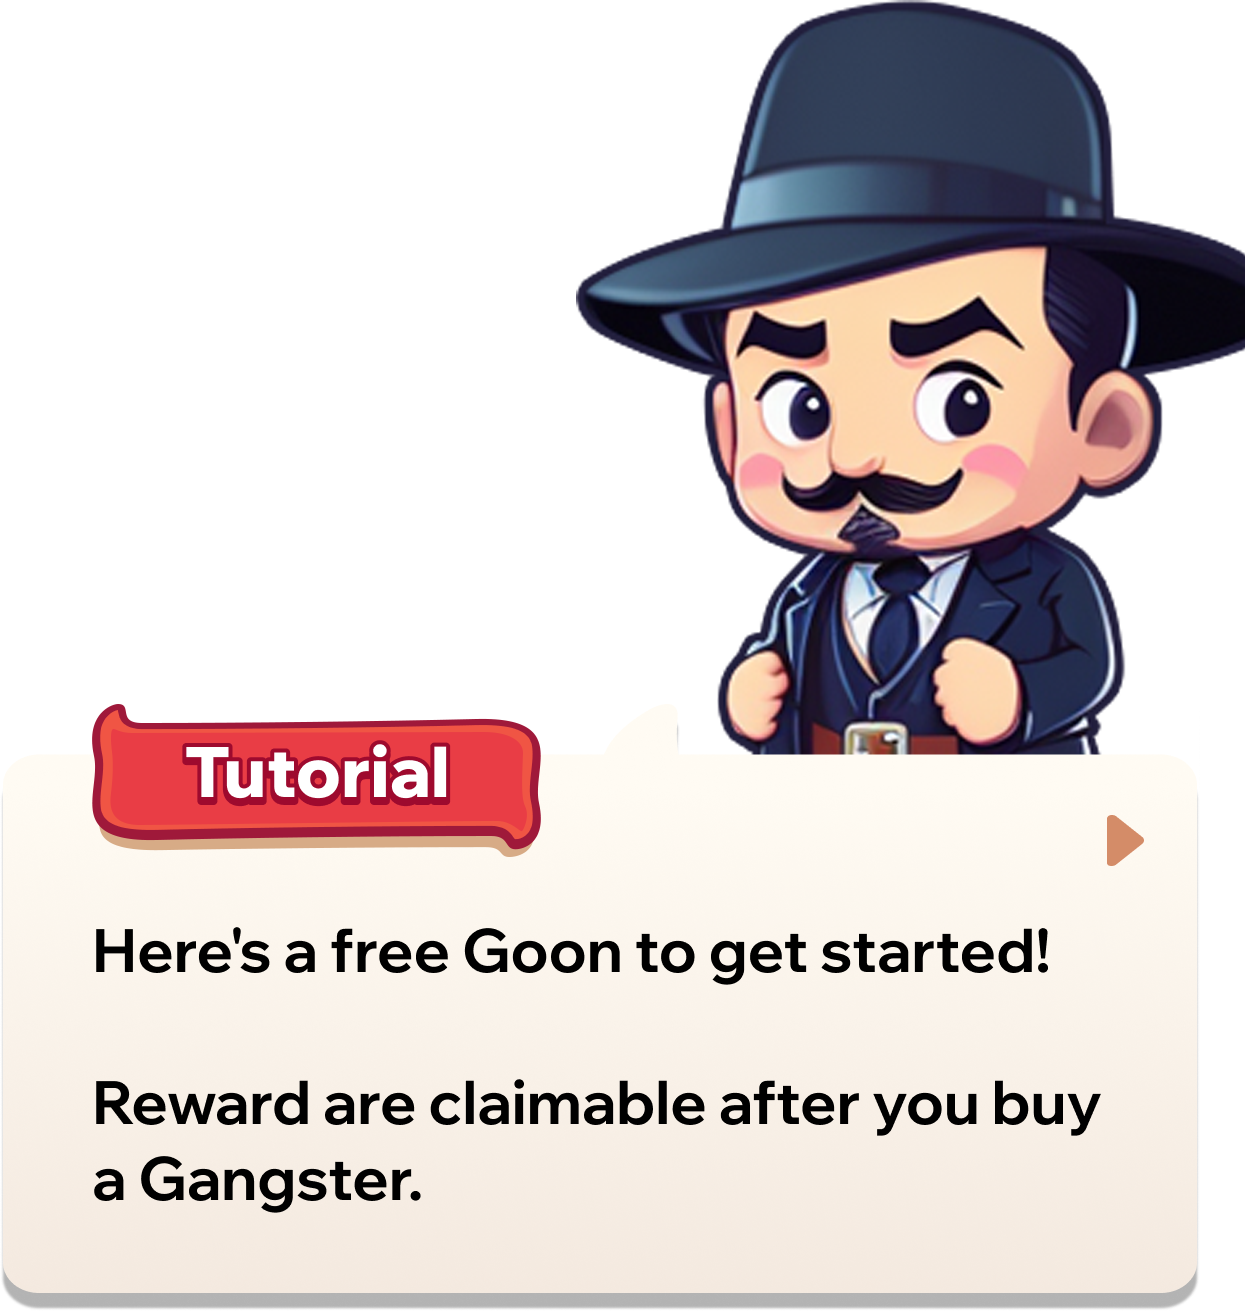
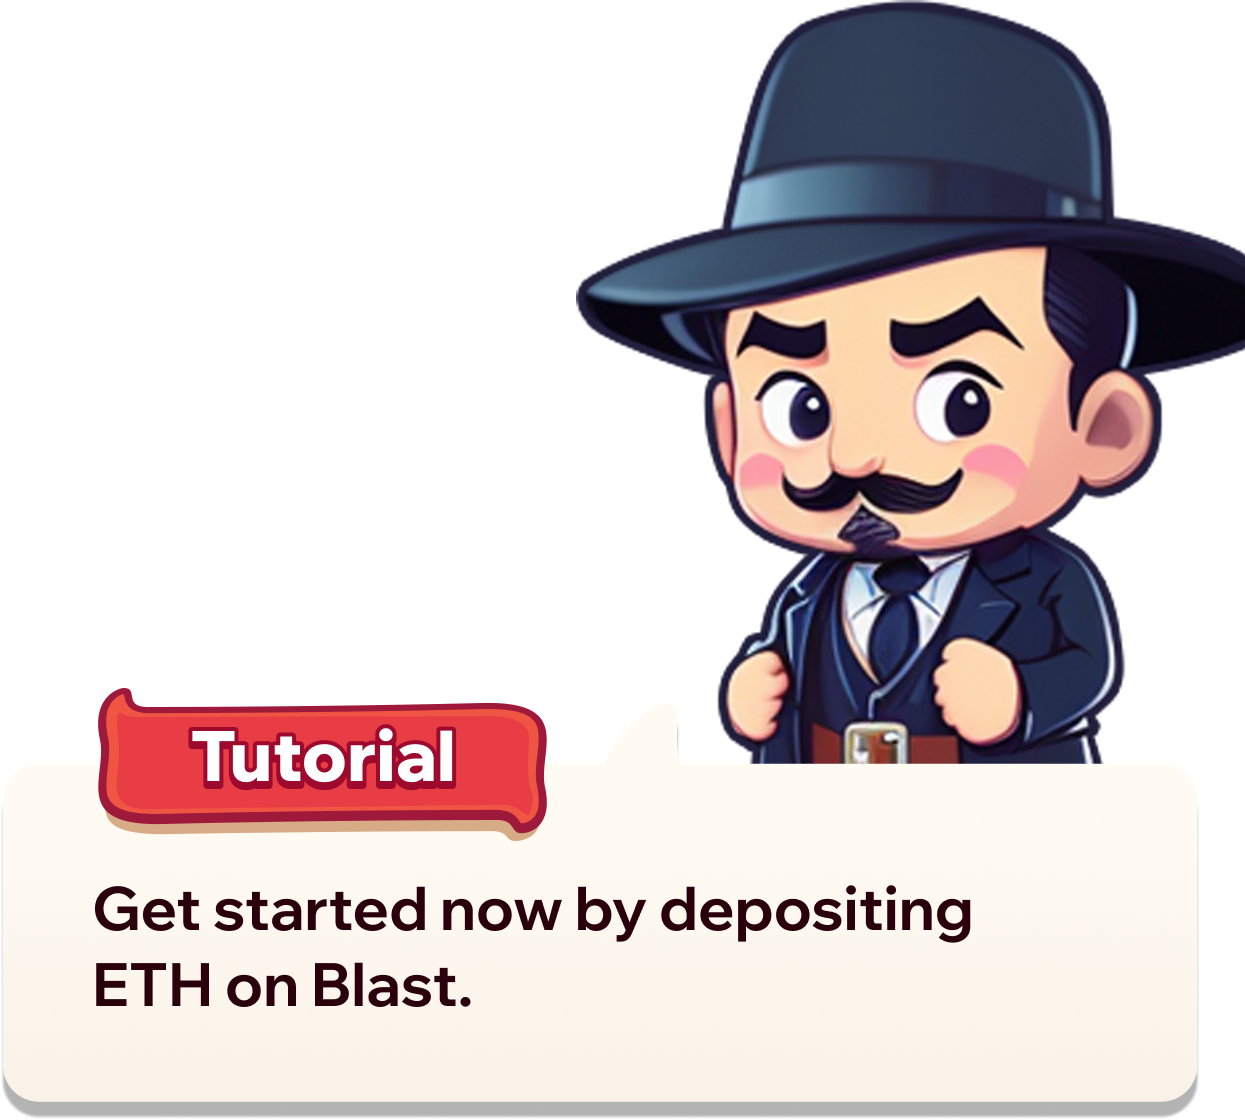
feat: step 15 & end tutorial

diff --git a/app/src/hooks/useSimulatorGameListener.js b/app/src/hooks/useSimulatorGameListener.js
@@ -18,7 +18,7 @@ const useSimulatorGameListener = () => {
   // })
   const market = useSystemStore((state) => state.market);
   const [gameRef, setGameRef] = useState(null);
-  const [balances, setBalances] = useState({ xTokenBalance: 10000, ETHBalance: 100000, tokenBalance: 100000 });
+  const [balances, setBalances] = useState({ xTokenBalance: 10000, tokenBalance: 100000 });
   const [assets, setAssets] = useState({
     numberOfMachines: 0,
     numberOfWorkers: 0,
@@ -93,7 +93,7 @@ const useSimulatorGameListener = () => {
     });
 
     game.events.on('simulator-request-balances', () => {
-      game.events.emit('simulator-update-balances', balances);
+      game.events.emit('simulator-update-balances', { ...balances, ETHBalance: user?.ETHBalance || 0 });
     });
 
     game.events.on('simulator-request-xtoken-balance', () => {
@@ -104,7 +104,7 @@ const useSimulatorGameListener = () => {
       game.events.emit('simulator-update-machines', {
         numberOfMachines: assets.numberOfMachines,
         networth: assets.networth,
-        balance: balances.ETHBalance,
+        balance: user?.ETHBalance || 0,
         level: 0,
         dailyReward: activeSeason?.machine?.dailyReward,
         earningRateIncrementPerLevel: activeSeason?.machine?.earningRateIncrementPerLevel,
@@ -289,7 +289,7 @@ const useSimulatorGameListener = () => {
     });
 
     game.events.on('simulator-request-eth-balance', async () => {
-      game.events.emit('simulator-update-eth-balance', { address: user.address, ETHBalance: balances.ETHBalance });
+      game.events.emit('simulator-update-eth-balance', { address: user.address, ETHBalance: user?.ETHBalance || 0 });
     });
 
     game.events.on('simulator-request-increment-time', () => {
@@ -309,10 +309,10 @@ const useSimulatorGameListener = () => {
     if (gameRef) {
       gameRef.events.emit('simulator-update-eth-balance', {
         address: user?.address || '',
-        ETHBalance: balances.ETHBalance,
+        ETHBalance: user?.ETHBalance || 0,
       });
     }
-  }, [balances.ETHBalance]);
+  }, [user?.ETHBalance]);
 
   useEffect(() => {
     if (gameRef) {
@@ -329,10 +329,10 @@ const useSimulatorGameListener = () => {
 
   useEffect(() => {
     if (gameRef) {
-      gameRef.events.emit('simulator-update-balances', balances);
+      gameRef.events.emit('simulator-update-balances', { ...balances, ETHBalance: user?.ETHBalance || 0 });
       gameRef.events.emit('simulator-xbalance-token', { balance: balances.xTokenBalance });
     }
-  }, [balances]);
+  }, [balances, user?.ETHBalance]);
 
   useEffect(() => {
     console.log('Change ', { activeSeason, gameRef });
@@ -349,7 +349,7 @@ const useSimulatorGameListener = () => {
       gameRef.events.emit('simulator-update-machines', {
         numberOfMachines: assets.numberOfMachines,
         networth: assets.networth,
-        balance: balances.ETHBalance,
+        balance: user?.ETHBalance || 0,
         level: 0,
         dailyReward: activeSeason?.machine?.dailyReward,
         earningRateIncrementPerLevel: activeSeason?.machine?.earningRateIncrementPerLevel,
@@ -367,7 +367,7 @@ const useSimulatorGameListener = () => {
         salesLastPeriod: 0,
       });
     }
-  }, [assets, balances, activeSeason, market]);
+  }, [assets, user?.ETHBalance, activeSeason, market]);
 
   useEffect(() => {
     if (gameRef) {

diff --git a/app/src/pages/Game/components/tutorials/Step15.js b/app/src/pages/Game/components/tutorials/Step15.js
@@ -1,24 +1,59 @@
 import Phaser from 'phaser';
 
-import configs from '../../configs/configs';
 import TutorialCharacter from './TutorialCharacter';
+import Balance from '../action-buttons/Balance';
+import configs from '../../configs/configs';
 
 const { width, height } = configs;
 
+const buttonWidth = 400;
+const gap = buttonWidth + 20;
+const y = 250;
+
 class Step15 extends Phaser.GameObjects.Container {
-  constructor(scene, onNext) {
+  constructor(scene, overlayContainer) {
     super(scene, 0, 0);
 
     this.setVisible(false);
 
-    this.character = new TutorialCharacter(scene, width / 2, height / 2 - 600, 'tutorial-15', onNext);
-    this.add(this.character);
+    this.character = new TutorialCharacter(scene, width / 2, height - 1000, 'tutorial-15', () => {});
+    this.character.setVisible(false);
+    overlayContainer.add(this.character);
 
-    this.goon = scene.add.image(300, height / 2 + 300, 'tutorial-15-goon');
-    this.add(this.goon);
+    this.ethBalance = new Balance(
+      scene,
+      width / 2 + gap,
+      y,
+      () => {
+        scene.popupDeposit.open();
+      },
+      'eth-balance',
+      '0'
+    );
+    this.add(this.ethBalance);
 
-    this.arrow = scene.add.image(300 + this.goon.width / 2, height / 2 + 300, 'tutorial-arrow-left').setOrigin(0, 0.5);
-    this.add(this.arrow);
+    this.arrow = scene.add
+      .image(
+        this.ethBalance.addButton.x,
+        this.ethBalance.container.y + this.ethBalance.container.height / 2 + 20,
+        'tutorial-arrow-up'
+      )
+      .setOrigin(0.5, 0)
+      .setVisible(false);
+    overlayContainer.add(this.arrow);
+  }
+
+  start() {
+    this.setVisible(true);
+    this.character.setVisible(true);
+    this.arrow.setVisible(true);
+  }
+
+  moveArrowToDepositBtn() {
+    this.ethBalance.setVisible(false);
+    this.arrow.x = width / 2 + 330;
+    this.arrow.y = height / 2 - 300;
+    this.character.y += 400;
   }
 }
 

diff --git a/app/src/pages/Game/scenes/TutorialScene.js b/app/src/pages/Game/scenes/TutorialScene.js
@@ -80,19 +80,34 @@ class TutorialScene extends Phaser.Scene {
         this.tutorial.step13.setVisible(false);
         this.tutorial.step14.setVisible(true);
       },
+      onClose: () => {
+        this.tutorial.step14.setVisible(false);
+        this.tutorial.step15.start();
+      },
     });
     this.add.existing(this.popupReferralProgram);
 
     this.popupDeposit = new PopupDeposit(this, null, {
       isSimulator: true,
+      noBackground: true,
+      originY: -220,
       onOpen: () => {
-        this.tutorial.step16.setVisible(false);
+        this.tutorial.step15.moveArrowToDepositBtn();
       },
       onClose: endTutorial,
     }); // done
     this.add.existing(this.popupDeposit);
 
-    this.popupDepositETH = new PopupDepositETH(this, { isSimulator: true, onClose: endTutorial });
+    this.popupDepositETH = new PopupDepositETH(this, {
+      isSimulator: true,
+      noBackground: true,
+      originY: -220,
+      onOpen: () => {
+        this.tutorial.step15.arrow.setVisible(false);
+        this.tutorial.step15.character.updateCallback(endTutorial);
+      },
+      onClose: endTutorial,
+    });
     this.add.existing(this.popupDepositETH);
 
     this.popupBuy = new PopupBuy(this, width - 335, 1600); // done

diff --git a/app/src/pages/Game/components/tutorials/Tutorial.js b/app/src/pages/Game/components/tutorials/Tutorial.js
@@ -15,7 +15,6 @@ import Step12 from './Step12';
 import Step13 from './Step13';
 import Step14 from './Step14';
 import Step15 from './Step15';
-import Step16 from './Step16';
 import configs from '../../configs/configs';
 
 const { width, height } = configs;
@@ -104,24 +103,12 @@ class Tutorial extends Phaser.GameObjects.Container {
 
     this.step14 = new Step14(scene, () => {
       this.step14.setVisible(false);
-      this.step15.setVisible(true);
+      this.step15.start();
     });
     this.add(this.step14);
 
-    this.step15 = new Step15(scene, () => {
-      this.step15.setVisible(false);
-      this.step16.setVisible(true);
-      scene.game.events.emit('simulator-buy-goon', { quantity: 1, delayDuration: 0, hideSuccessPopup: true });
-    });
+    this.step15 = new Step15(scene, overlayContainer);
     this.add(this.step15);
-
-    this.step16 = new Step16(scene, () => {
-      this.step16.setVisible(false);
-      scene.game.events.emit('simulator-end');
-      scene.scene.stop();
-      scene.scene.start('MainScene', { isFromTutorial: true });
-    });
-    this.add(this.step16);
 
     this.step1.setVisible(true);
   }

diff --git a/app/src/pages/Game/components/popup/PopupDepositETH.js b/app/src/pages/Game/components/popup/PopupDepositETH.js
@@ -9,8 +9,9 @@ const { width, height } = configs;
 class PopupDepositETH extends Popup {
   code = '-----';
 
-  constructor(scene, { isSimulator, onClose } = {}) {
-    super(scene, 'popup-small', { title: 'Deposit ETH' });
+  constructor(scene, { isSimulator, onOpen, onClose, ...configs } = {}) {
+    super(scene, 'popup-small', { title: 'Deposit ETH', ...configs });
+    this.onOpenCallback = onOpen;
     this.cleanup = onClose;
     this.isSimulator = isSimulator;
 
@@ -84,6 +85,7 @@ class PopupDepositETH extends Popup {
 
   onOpen() {
     this.scene.game.events.emit(this.events.requestDepositCode);
+    this.onOpenCallback?.();
   }
 }
 

diff --git a/app/src/pages/Game/components/popup/PopupDeposit.js b/app/src/pages/Game/components/popup/PopupDeposit.js
@@ -12,8 +12,8 @@ class PopupDeposit extends Popup {
   address = '';
   isSimulator;
 
-  constructor(scene, parentModal, { isSimulator, onOpen, onClose } = {}) {
-    super(scene, 'popup-small', { title: 'Deposit' });
+  constructor(scene, parentModal, { isSimulator, onOpen, onClose, ...configs } = {}) {
+    super(scene, 'popup-small', { title: 'Deposit', ...configs });
     this.onOpenCallback = onOpen;
     this.cleanup = onClose;
     this.isSimulator = isSimulator;

diff --git a/app/src/pages/Game/scenes/LoadingScene.js b/app/src/pages/Game/scenes/LoadingScene.js
@@ -419,8 +419,6 @@ class LoadingScene extends Phaser.Scene {
     this.load.image('tutorial-13', '/images/tutorial-13.png');
     this.load.image('tutorial-14', '/images/tutorial-14.png');
     this.load.image('tutorial-15', '/images/tutorial-15.png');
-    this.load.image('tutorial-15-goon', '/images/tutorial-15-goon.png');
-    this.load.image('tutorial-16', '/images/tutorial-16.png');
   }
 
   create() {}

diff --git a/app/src/pages/Game/components/tutorials/TutorialCharacter.js b/app/src/pages/Game/components/tutorials/TutorialCharacter.js
@@ -11,6 +11,10 @@ class TutorialCharacter extends Phaser.GameObjects.Container {
       onNext();
     });
   }
+
+  updateCallback(callback) {
+    this.image.setInteractive().on(Phaser.Input.Events.GAMEOBJECT_POINTER_DOWN, callback);
+  }
 }
 
 export default TutorialCharacter;
